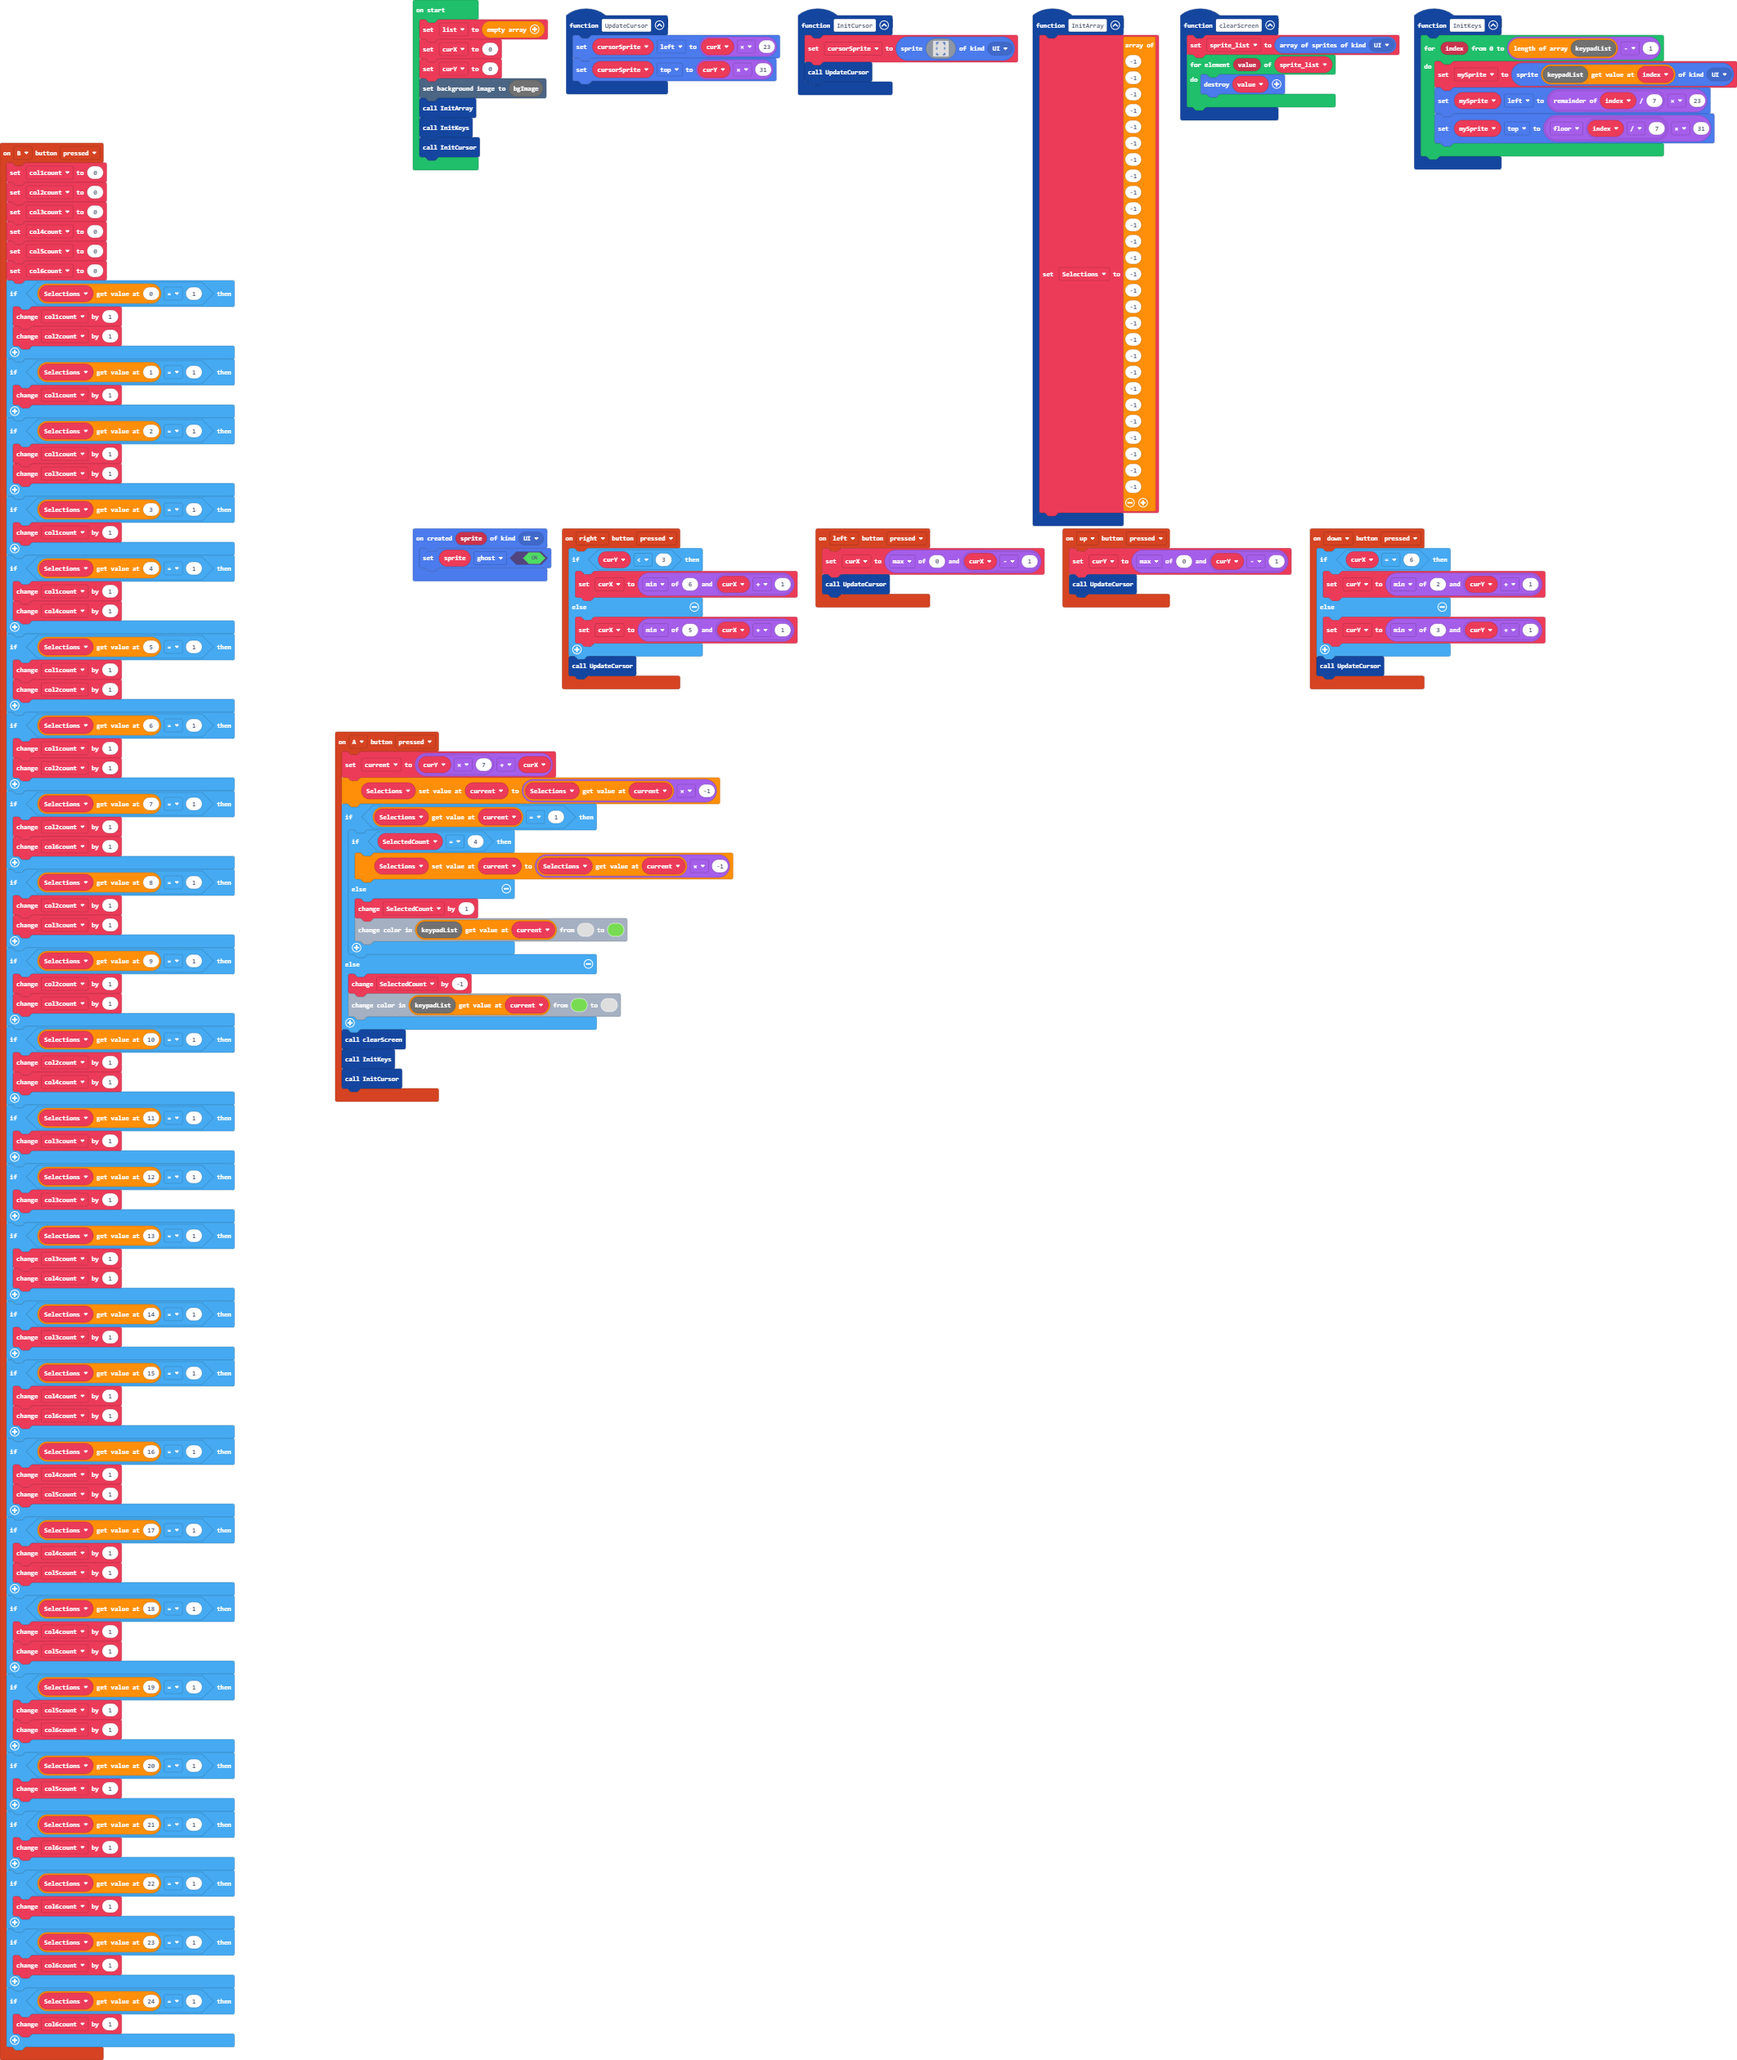
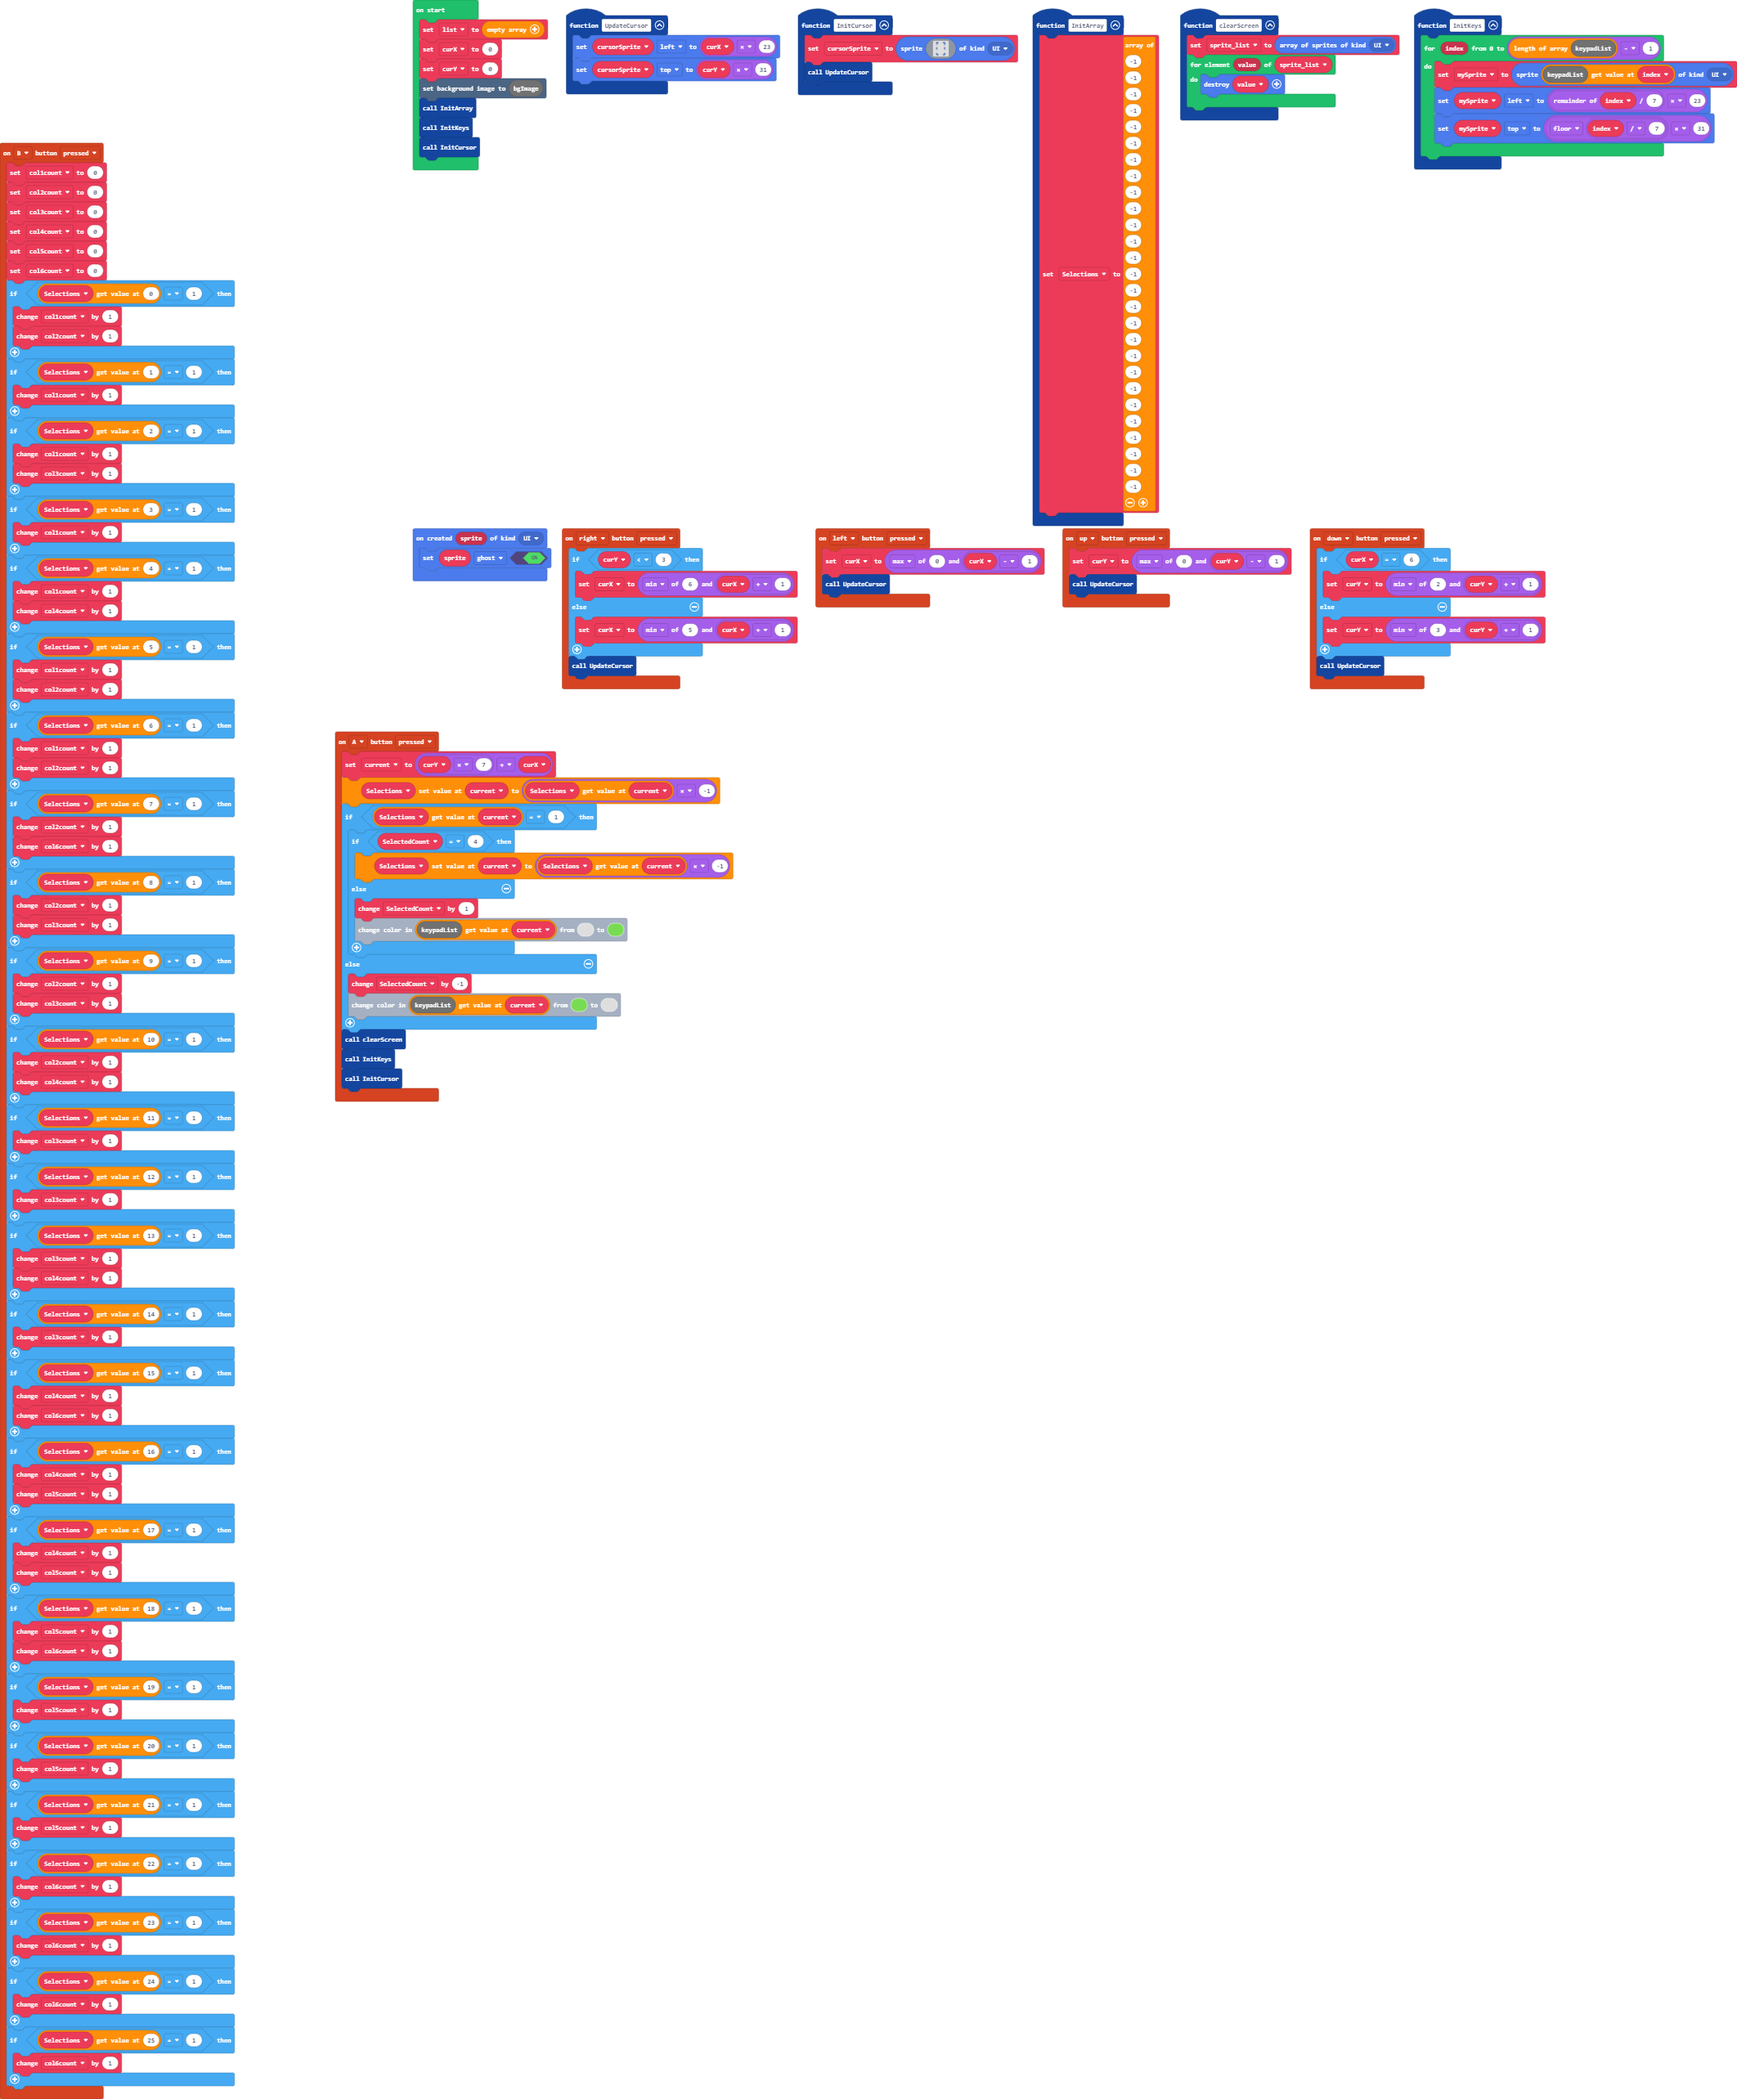
updated/finished button b values thingy

diff --git a/main.ts b/main.ts
@@ -91,18 +91,17 @@ controller.B.onEvent(ControllerButtonEvent.Pressed, function () {
         col5count += 1
     }
     if (Selections[18] == 1) {
-        col4count += 1
         col5count += 1
+        col6count += 1
     }
     if (Selections[19] == 1) {
         col5count += 1
-        col6count += 1
     }
     if (Selections[20] == 1) {
         col5count += 1
     }
     if (Selections[21] == 1) {
-        col6count += 1
+        col5count += 1
     }
     if (Selections[22] == 1) {
         col6count += 1
@@ -111,6 +110,9 @@ controller.B.onEvent(ControllerButtonEvent.Pressed, function () {
         col6count += 1
     }
     if (Selections[24] == 1) {
+        col6count += 1
+    }
+    if (Selections[25] == 1) {
         col6count += 1
     }
 })
